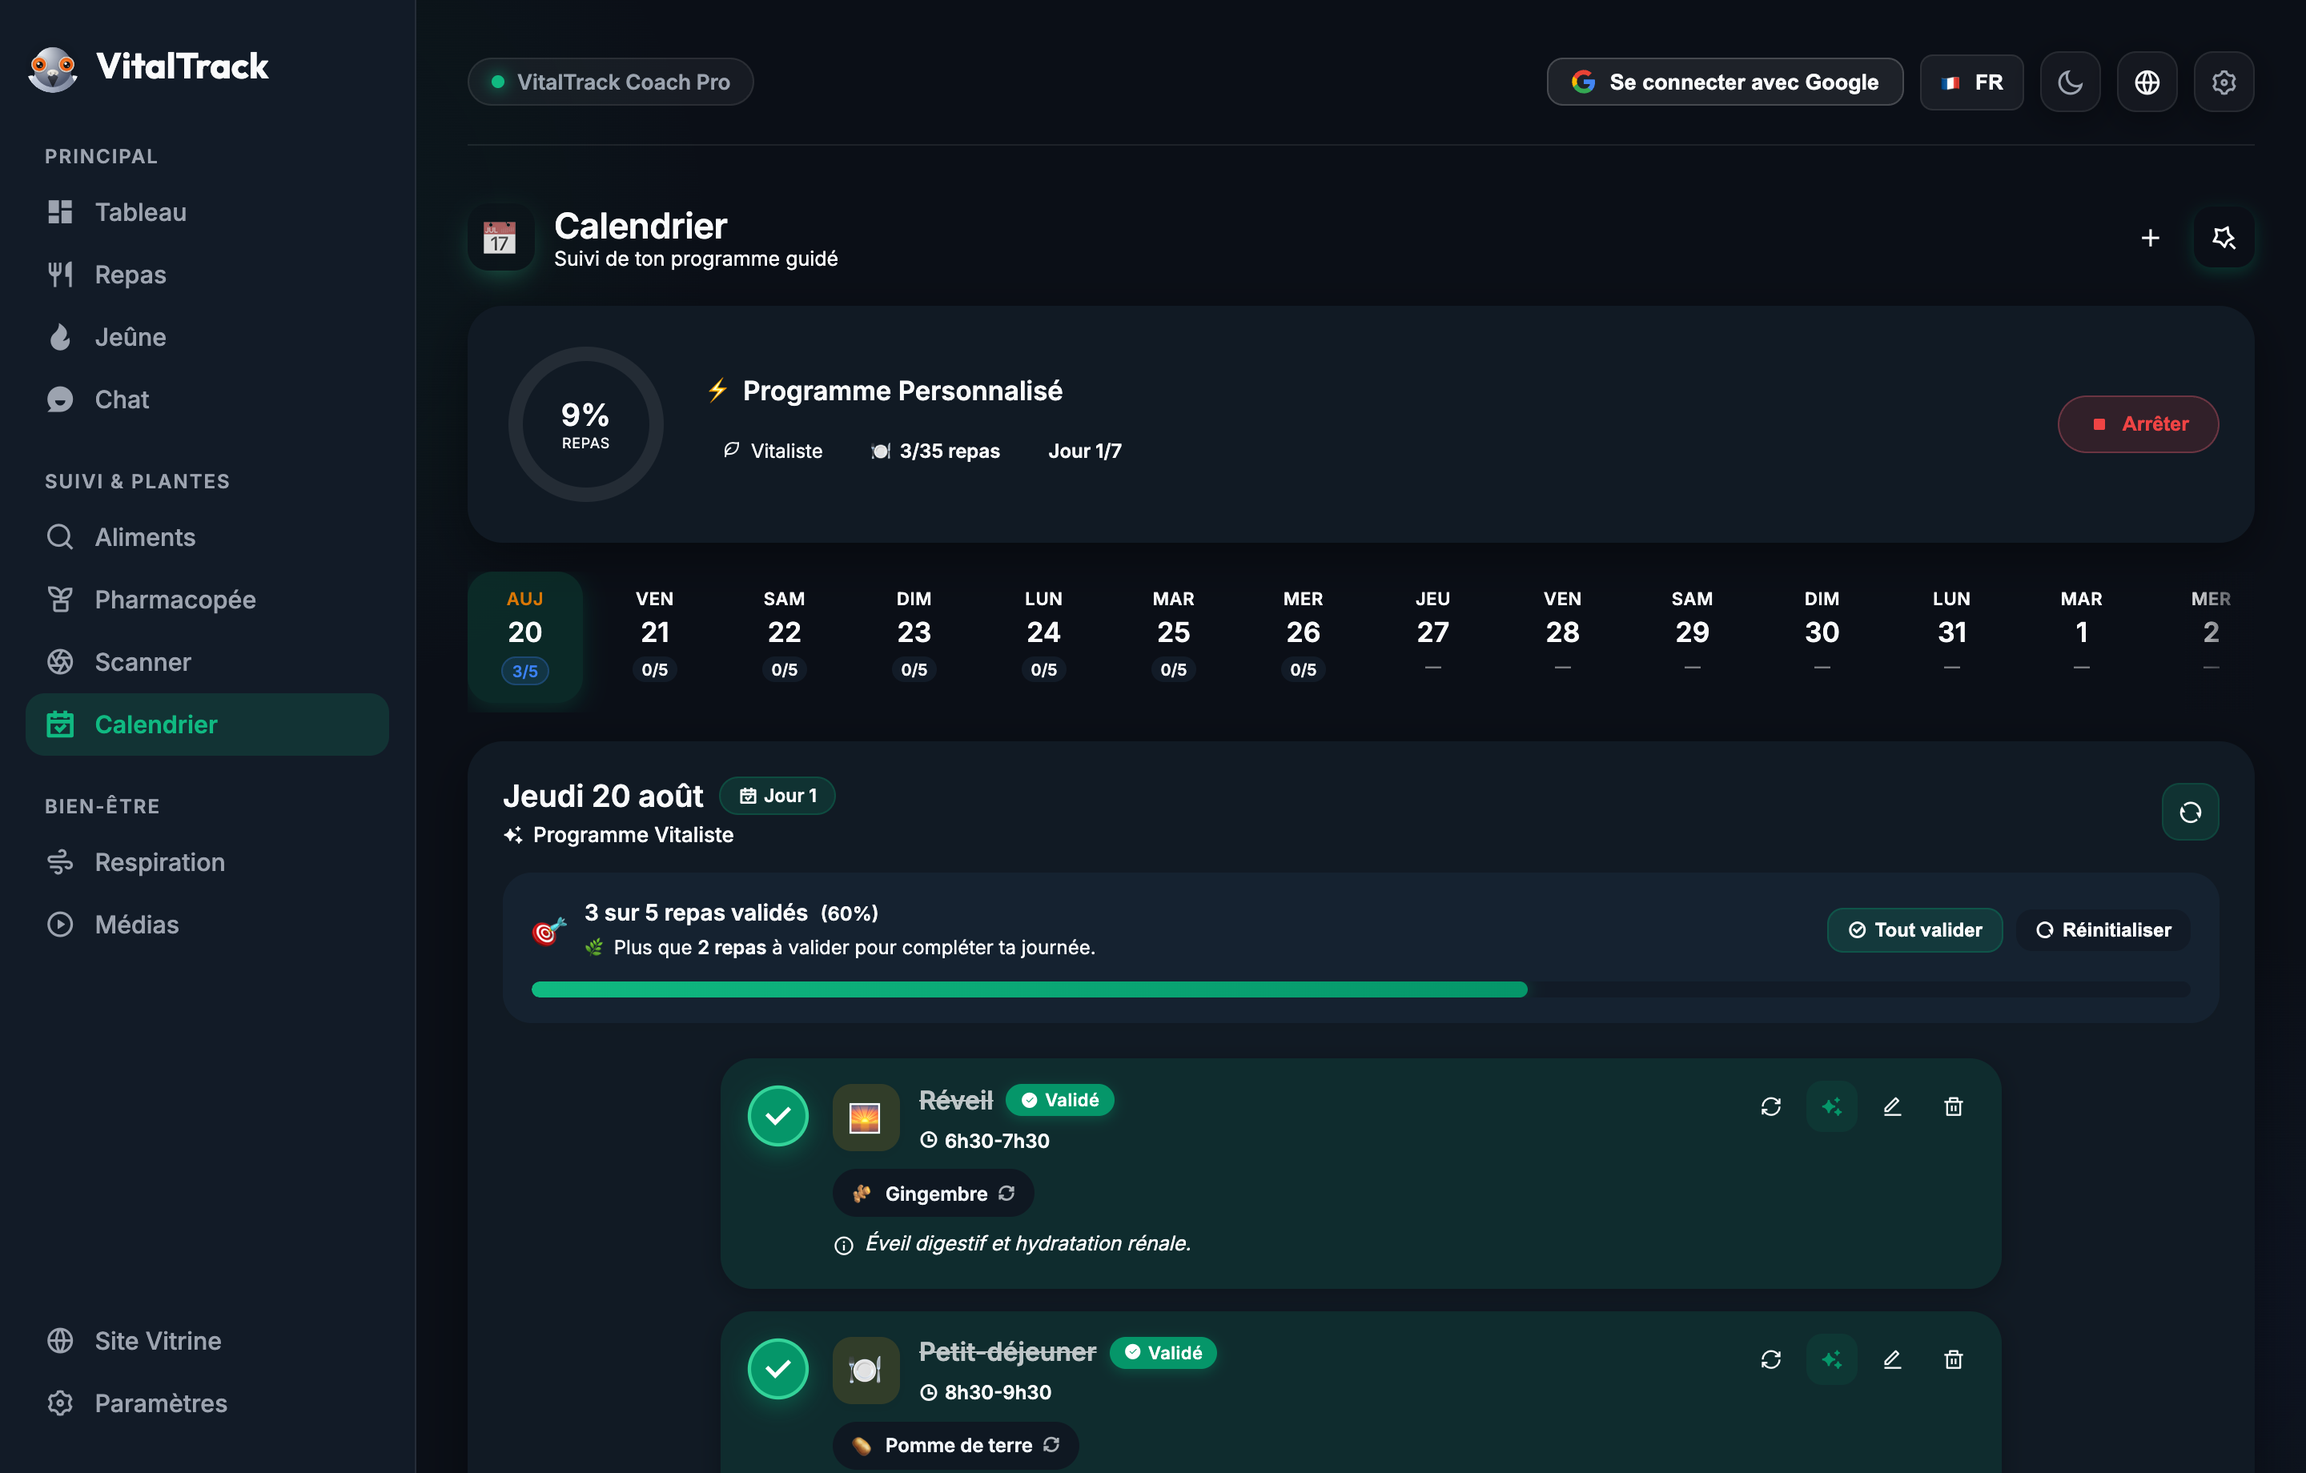
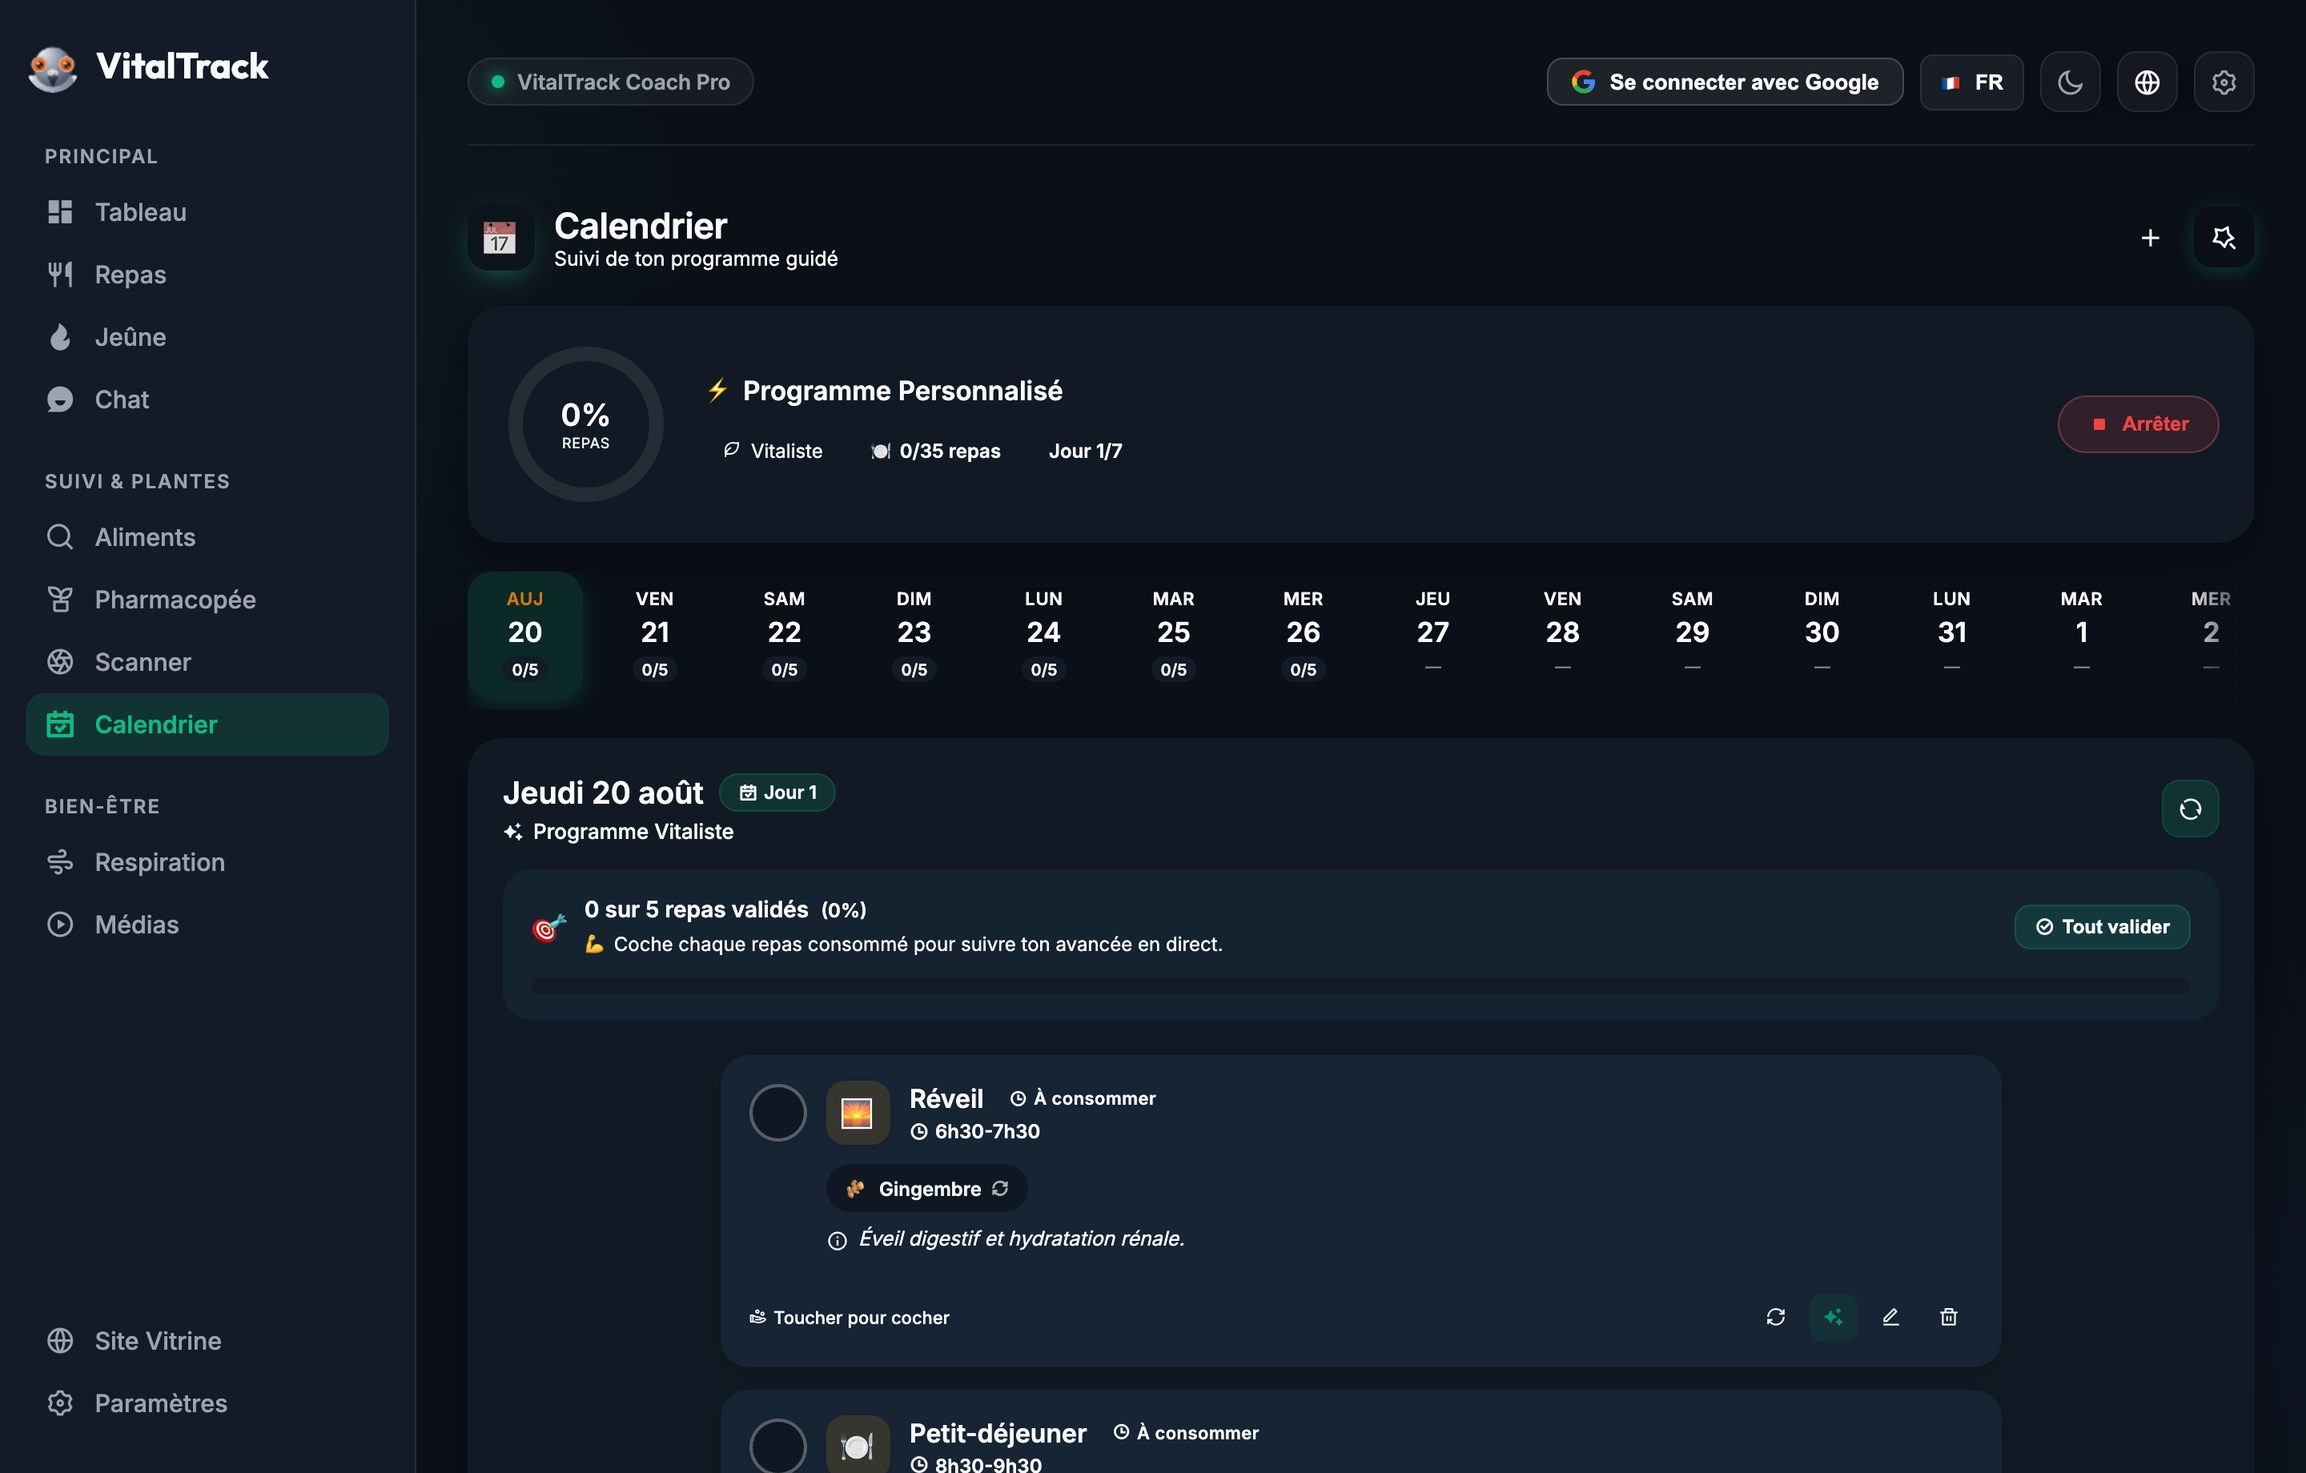
fix: overhaul mobile calendar meal cards layout to eliminate overlapping text and buttons

diff --git a/web-app/src/calendar-legacy.css b/web-app/src/calendar-legacy.css
@@ -211,10 +211,10 @@ body.light-theme #legacy-calendar .prog-ring-bg,
 }
 
 #legacy-calendar .meal-card {
-  background:var(--surface); border:1.5px solid var(--border); border-radius:20px;
-  padding:16px 120px 16px 18px; display:flex; align-items:flex-start; gap:16px;
+  background:var(--surface); border:1.5px solid var(--border); border-radius:18px;
+  padding:16px 18px; display:flex; flex-direction:column; gap:12px;
   position:relative; transition:all 0.25s cubic-bezier(0.4, 0, 0.2, 1);
-  box-shadow:0 2px 10px rgba(0,0,0,0.02); min-height:86px; cursor:pointer;
+  box-shadow:0 2px 10px rgba(0,0,0,0.02);
 }
 
 #legacy-calendar .meal-card:hover {
@@ -227,25 +227,26 @@ body.light-theme #legacy-calendar .prog-ring-bg,
   box-shadow:0 4px 16px rgba(5,150,105,0.1);
 }
 
-/* 1. Integrated Validation Checkbox Column */
-#legacy-calendar .meal-check-col {
-  flex-shrink:0; padding-top:2px;
+/* 1. Header (Checkbox + Icon + Title/Status/Time) */
+#legacy-calendar .meal-header-row {
+  display:flex; align-items:center; gap:12px; width:100%;
 }
+
 #legacy-calendar .meal-check-btn {
   width:36px; height:36px; border-radius:50%; background:var(--surface-2);
   border:2.5px solid var(--border-strong, #94a3b8); display:flex; align-items:center; justify-content:center;
   color:#ffffff; cursor:pointer; transition:all 0.25s cubic-bezier(0.34, 1.56, 0.64, 1);
-  box-shadow:0 2px 8px rgba(0,0,0,0.06); padding:0; outline:none;
+  box-shadow:0 2px 8px rgba(0,0,0,0.06); padding:0; outline:none; flex-shrink:0;
 }
 #legacy-calendar .meal-check-btn:hover {
-  border-color:var(--accent); transform:scale(1.14); box-shadow:0 0 14px rgba(5,150,105,0.45);
+  border-color:var(--accent); transform:scale(1.12); box-shadow:0 0 14px rgba(5,150,105,0.45);
 }
 #legacy-calendar .meal-check-btn.checked {
   background:var(--accent, #059669); border-color:var(--accent, #059669); color:#ffffff;
-  transform:scale(1.06); box-shadow:0 4px 14px rgba(5,150,105,0.45);
+  transform:scale(1.05); box-shadow:0 4px 14px rgba(5,150,105,0.45);
 }
 #legacy-calendar .meal-check-btn .check-inner {
-  display:flex; align-items:center; justify-content:center; font-size:20px; font-weight:900;
+  display:flex; align-items:center; justify-content:center; font-size:19px; font-weight:900;
 }
 #legacy-calendar .meal-check-btn .check-inner i {
   opacity:0; transform:scale(0.4); transition:all 0.22s cubic-bezier(0.34, 1.56, 0.64, 1);
@@ -254,24 +255,29 @@ body.light-theme #legacy-calendar .prog-ring-bg,
   opacity:1; transform:scale(1);
 }
 
-/* 2. Main Card Content */
-#legacy-calendar .meal-card-content {
-  flex:1; min-width:0;
-}
-
-#legacy-calendar .meal-top { display:flex; align-items:flex-start; gap:12px; margin-bottom:10px; }
 #legacy-calendar .meal-icon-badge {
-  width:42px; height:42px; border-radius:12px; display:flex; align-items:center; justify-content:center;
+  width:40px; height:40px; border-radius:12px; display:flex; align-items:center; justify-content:center;
   font-size:20px; flex-shrink:0; box-shadow:0 2px 8px rgba(0,0,0,0.05);
 }
-#legacy-calendar .meal-title-wrap { flex:1; }
-#legacy-calendar .meal-title-row { display:flex; align-items:center; gap:8px; flex-wrap:wrap; margin-bottom:3px; }
-#legacy-calendar .meal-title { font-size:16px; font-weight:800; color:var(--text-hi); line-height:1.2; }
-#legacy-calendar .meal-card.is-checked .meal-title { text-decoration:line-through; opacity:0.75; }
+
+#legacy-calendar .meal-title-block {
+  display:flex; flex-direction:column; gap:3px; min-width:0; flex:1;
+}
+
+#legacy-calendar .meal-title-line {
+  display:flex; align-items:center; gap:8px; flex-wrap:wrap;
+}
+
+#legacy-calendar .meal-title {
+  font-size:16px; font-weight:800; color:var(--text-hi); line-height:1.25;
+}
+#legacy-calendar .meal-card.is-checked .meal-title {
+  text-decoration:line-through; opacity:0.75;
+}
 
 #legacy-calendar .meal-status-pill {
-  font-size:11px; font-weight:700; padding:3px 9px; border-radius:100px; letter-spacing:0.02em;
-  display:inline-flex; align-items:center; gap:4px; transition:all 0.2s ease; cursor:pointer;
+  font-size:11px; font-weight:700; padding:2px 8px; border-radius:100px; letter-spacing:0.02em;
+  display:inline-flex; align-items:center; gap:4px; transition:all 0.2s ease; cursor:pointer; flex-shrink:0;
 }
 #legacy-calendar .meal-status-pill.pending {
   color:var(--text-low); background:var(--surface-2); border:1px solid var(--border);
@@ -287,7 +293,12 @@ body.light-theme #legacy-calendar .prog-ring-bg,
   font-size:12px; color:var(--text-low); font-weight:600; display:inline-flex; align-items:center; gap:4px;
 }
 
-#legacy-calendar .meal-tags { display:flex; gap:7px; flex-wrap:wrap; margin-bottom:8px; }
+/* 2. Body Content (Tags & Note) */
+#legacy-calendar .meal-body-content {
+  display:flex; flex-direction:column; gap:8px; padding-left:48px;
+}
+
+#legacy-calendar .meal-tags { display:flex; gap:7px; flex-wrap:wrap; }
 #legacy-calendar .meal-tag {
   font-size:12px; font-weight:600; color:var(--text-hi); background:var(--surface-2);
   border:1.2px solid var(--border); padding:5px 12px; border-radius:100px; transition:all 0.2s ease;
@@ -307,18 +318,27 @@ body.light-theme #legacy-calendar .prog-ring-bg,
 }
 
 #legacy-calendar .meal-note {
-  font-size:12.5px; color:var(--text-low); display:flex; align-items:flex-start; gap:6px; font-style:italic; line-height:1.4; margin-top:4px;
+  font-size:12.5px; color:var(--text-low); display:flex; align-items:flex-start; gap:6px; font-style:italic; line-height:1.4;
 }
 #legacy-calendar .meal-note .note-icon { font-size:14px; margin-top:1px; color:var(--accent); flex-shrink:0; }
 
-/* 3. Quick Action Buttons (top-right of card) */
+/* 3. Footer Row (Action Hint + Quick Action Buttons) */
+#legacy-calendar .meal-footer-row {
+  display:flex; align-items:center; justify-content:space-between; gap:10px;
+  padding-top:8px; border-top:1px solid var(--border); margin-top:2px;
+}
+
+#legacy-calendar .meal-footer-hint {
+  font-size:11px; color:var(--text-low); display:flex; align-items:center; gap:4px; font-weight:500;
+}
+
 #legacy-calendar .meal-actions {
-  position:absolute; top:14px; right:14px; display:flex; gap:6px; z-index:3;
+  display:flex; align-items:center; gap:6px; margin-left:auto;
 }
 #legacy-calendar .meal-action-btn {
-  width:32px; height:32px; border-radius:10px; display:flex; align-items:center; justify-content:center;
+  width:30px; height:30px; border-radius:8px; display:flex; align-items:center; justify-content:center;
   background:var(--surface-2); border:1px solid var(--border); color:var(--text-mid); cursor:pointer;
-  transition:all 0.2s ease; font-size:14px;
+  transition:all 0.2s ease; font-size:13px;
 }
 #legacy-calendar .meal-action-btn:hover {
   background:var(--surface-hover); color:var(--text-hi); border-color:var(--accent); transform:translateY(-1px);
@@ -332,6 +352,46 @@ body.light-theme #legacy-calendar .prog-ring-bg,
 }
 #legacy-calendar .meal-action-btn.danger:hover {
   background:var(--red-dim); color:var(--red); border-color:rgba(239,68,68,0.4);
+}
+
+/* 📱 Responsive Mobile Adjustments */
+@media (max-width: 600px) {
+  #legacy-calendar .meal-card {
+    padding:12px 14px; gap:10px; border-radius:16px;
+  }
+  #legacy-calendar .meal-header-row {
+    gap:9px;
+  }
+  #legacy-calendar .meal-check-btn {
+    width:32px; height:32px;
+  }
+  #legacy-calendar .meal-check-btn .check-inner {
+    font-size:17px;
+  }
+  #legacy-calendar .meal-icon-badge {
+    width:34px; height:34px; font-size:17px; border-radius:10px;
+  }
+  #legacy-calendar .meal-title {
+    font-size:14.5px;
+  }
+  #legacy-calendar .meal-body-content {
+    padding-left:0;
+  }
+  #legacy-calendar .meal-tags {
+    gap:5px;
+  }
+  #legacy-calendar .meal-tag {
+    padding:4px 10px; font-size:11.5px;
+  }
+  #legacy-calendar .meal-footer-row {
+    padding-top:6px;
+  }
+  #legacy-calendar .meal-actions {
+    gap:5px;
+  }
+  #legacy-calendar .meal-action-btn {
+    width:28px; height:28px; font-size:13px;
+  }
 }
 
 /* Empty State */

diff --git a/web-app/src/calendar-legacy.js b/web-app/src/calendar-legacy.js
@@ -196,31 +196,25 @@ window.renderDay = function() {
 
     html += "<div class='meal-card " + (checked ? "is-checked" : "") + "' id='mealCard_" + meal.id + "'>";
     
-    // 1. Integrated Validation Checkbox
-    html += "  <div class='meal-check-col'>";
+    // 1. Header (Checkbox + Category Icon + Title + Status Pill + Time)
+    html += "  <div class='meal-header-row'>";
     html += "    <button type='button' class='meal-check-btn " + (checked ? "checked" : "") + "' onclick='event.stopPropagation(); window.toggleMeal(\"" + meal.id + "\")' title='" + (checked ? "Cliquer pour marquer comme non consommé" : "Cliquer pour valider ce repas") + "' aria-label='Valider le repas'>";
     html += "      <span class='check-inner'><i class='ri-check-line'></i></span>";
     html += "    </button>";
+    html += "    <div class='meal-icon-badge' style='background:" + tone.bg + "; color:" + tone.fg + ";' title='" + tone.label + "'>" + (meal.icon || tone.icon) + "</div>";
+    html += "    <div class='meal-title-block'>";
+    html += "      <div class='meal-title-line'>";
+    html += "        <span class='meal-title'>" + safeTitle + "</span>";
+    html += "        <span class='meal-status-pill " + (checked ? "done" : "pending") + "' onclick='event.stopPropagation(); window.toggleMeal(\"" + meal.id + "\")'>";
+    html += "          " + (checked ? "<i class='ri-checkbox-circle-fill'></i> Validé" : "<i class='ri-time-line'></i> À consommer");
+    html += "        </span>";
+    html += "      </div>";
+    html += "      <div class='meal-time'><i class='ri-time-line'></i> " + (meal.time || 'Horaire libre') + "</div>";
+    html += "    </div>";
     html += "  </div>";
 
-    // 2. Main Card Content
-    html += "  <div class='meal-card-content' onclick='window.toggleMeal(\"" + meal.id + "\")'>";
-    
-    // Top Row: Meal Icon, Title, Status Badge, Time
-    html += "    <div class='meal-top'>";
-    html += "      <div class='meal-icon-badge' style='background:" + tone.bg + "; color:" + tone.fg + ";' title='" + tone.label + "'>" + (meal.icon || tone.icon) + "</div>";
-    html += "      <div class='meal-title-wrap'>";
-    html += "        <div class='meal-title-row'>";
-    html += "          <span class='meal-title'>" + safeTitle + "</span>";
-    html += "          <span class='meal-status-pill " + (checked ? "done" : "pending") + "' onclick='event.stopPropagation(); window.toggleMeal(\"" + meal.id + "\")'>";
-    html += "            " + (checked ? "<i class='ri-checkbox-circle-fill'></i> Validé" : "<i class='ri-time-line'></i> À consommer");
-    html += "          </span>";
-    html += "        </div>";
-    html += "        <span class='meal-time'><i class='ri-time-line'></i> " + (meal.time || 'Horaire libre') + "</span>";
-    html += "      </div>";
-    html += "    </div>";
-    
-    // Food Ingredient Tags
+    // 2. Food Ingredient Tags
+    html += "  <div class='meal-body-content'>";
     html += "    <div class='meal-tags'>";
     if (meal.tags && meal.tags.length > 0) {
       meal.tags.forEach(function(t, tagIdx){
@@ -241,14 +235,17 @@ window.renderDay = function() {
     }
     html += "  </div>";
 
-    // 3. Quick Action Buttons
-    html += "  <div class='meal-actions'>";
+    // 3. Footer Actions Row
     var firstFood = (meal.tags && meal.tags[0] && meal.tags[0].n) ? meal.tags[0].n.replace(/"/g, '&quot;').replace(/'/g, "\\'") : '';
     var firstEmoji = (meal.tags && meal.tags[0] && meal.tags[0].e) || '🍽';
-    html += "    <button type='button' class='meal-action-btn' data-tooltip='Varier un aliment' onclick='event.stopPropagation(); window.openSubstituteModal(\"" + meal.id + "\", 0, \"" + firstFood + "\", \"" + firstEmoji + "\")'><i class='ri-loop-right-line'></i></button>";
-    html += "    <button type='button' class='meal-action-btn ai-btn' data-tooltip='Suggérer un autre plat avec l\\'IA' onclick='event.stopPropagation(); window.openMealAiSuggestModal(\"" + meal.id + "\")'><i class='ri-sparkling-fill'></i></button>";
-    html += "    <button type='button' class='meal-action-btn' data-tooltip='Modifier l\\'horaire ou le plat' onclick='event.stopPropagation(); window.openCalMealModal(\"" + meal.id + "\")'><i class='ri-edit-line'></i></button>";
-    html += "    <button type='button' class='meal-action-btn danger' data-tooltip='Supprimer ce créneau' onclick='event.stopPropagation(); window.deleteMealConfirm(\"" + meal.id + "\")'><i class='ri-delete-bin-line'></i></button>";
+    html += "  <div class='meal-footer-row'>";
+    html += "    <div class='meal-footer-hint'><i class='ri-hand-coin-line'></i> Toucher pour cocher</div>";
+    html += "    <div class='meal-actions'>";
+    html += "      <button type='button' class='meal-action-btn' title='Varier un aliment' data-tooltip='Varier un aliment' onclick='event.stopPropagation(); window.openSubstituteModal(\"" + meal.id + "\", 0, \"" + firstFood + "\", \"" + firstEmoji + "\")'><i class='ri-loop-right-line'></i></button>";
+    html += "      <button type='button' class='meal-action-btn ai-btn' title='Suggérer avec IA' data-tooltip='Suggérer un autre plat avec l\\'IA' onclick='event.stopPropagation(); window.openMealAiSuggestModal(\"" + meal.id + "\")'><i class='ri-sparkling-fill'></i></button>";
+    html += "      <button type='button' class='meal-action-btn' title='Modifier' data-tooltip='Modifier l\\'horaire ou le plat' onclick='event.stopPropagation(); window.openCalMealModal(\"" + meal.id + "\")'><i class='ri-edit-line'></i></button>";
+    html += "      <button type='button' class='meal-action-btn danger' title='Supprimer' data-tooltip='Supprimer ce créneau' onclick='event.stopPropagation(); window.deleteMealConfirm(\"" + meal.id + "\")'><i class='ri-delete-bin-line'></i></button>";
+    html += "    </div>";
     html += "  </div>";
 
     html += "</div>";
